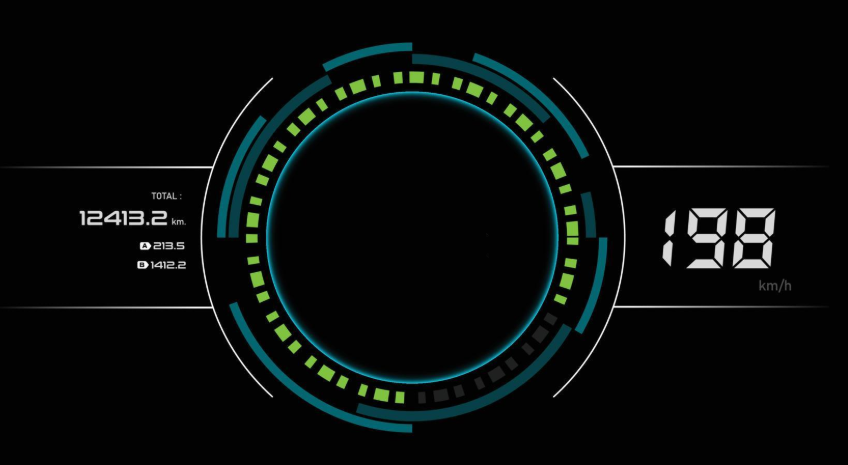
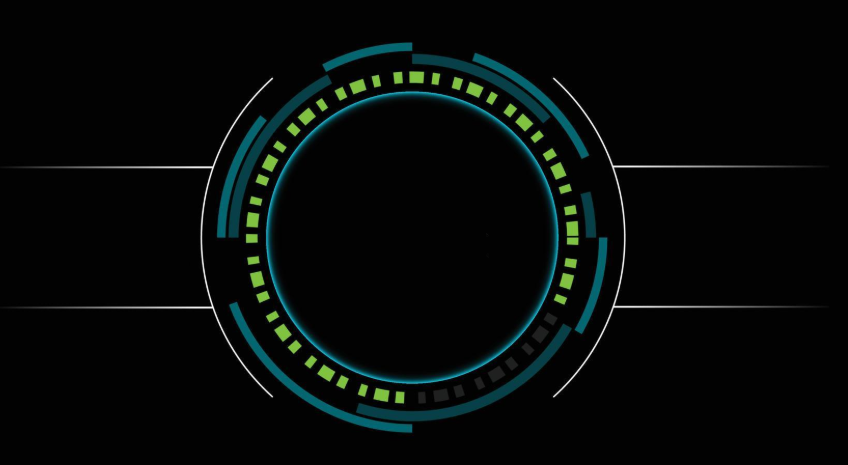
add new hud

Changed region(s): [[0.7665, 0.4215, 0.9505, 0.6323], [0.092, 0.3914, 0.2146, 0.6022]]

diff --git a/proto/hud/speed/white_speed.py b/proto/hud/speed/white_speed.py
@@ -1,0 +1,267 @@
+import math
+import os
+import cv2
+import numpy as np
+try:
+    from .base import HudPanel
+except ImportError:
+    from ..base import HudPanel
+
+
+class WhiteSpeedPanel(HudPanel):
+    def __init__(self, config=None):
+        super().__init__(config)
+        self.config.update({
+            "bg_image_path": os.path.join(os.path.dirname(__file__), "white.png"),
+            "bg_clean_image_path": os.path.join(os.path.dirname(__file__), "white1.png"),
+            "size_ratio": 0.32,
+            "margin_left": 36,
+            "margin_bottom": 80,
+            "max_speed": 280.0,
+            "start_angle": 225.0,
+            "sweep_angle": 270.0,
+            "needle_color": (0, 0, 220),
+            "needle_outline_color": (0, 0, 120),
+            "show_digital": False,
+            "digital_color": (30, 30, 30),
+            "unit_color": (80, 80, 80),
+            "unit_text": "KM/H",
+            "dial_left_center": (0.25, 0.5),
+            "dial_right_center": (0.75, 0.5),
+            "dial_radius_ratio": 0.40,
+            "draw_right_needle": True,
+            "digital_on_right": True,
+            "auto_calibrate": True,
+            "inpaint_enabled": True,
+            "inpaint_wedge_width": 10.0,
+            "inpaint_radius_ratio": 0.45,
+            "inpaint_left_angle": 330.0,
+            "inpaint_right_angle": 225.0,
+        })
+        self.bg_image = None
+        self.bg_clean_image = None
+        self.bg_cache = {}
+        self._auto_done_key = None
+
+    def _load_bg(self, target_h):
+        if self.bg_image is None:
+            path = self.config.get("bg_image_path")
+            if path and os.path.exists(path):
+                img = cv2.imread(path, cv2.IMREAD_UNCHANGED)
+                if img is not None:
+                    self.bg_image = img
+        if self.bg_clean_image is None:
+            clean_path = self.config.get("bg_clean_image_path")
+            if clean_path and os.path.exists(clean_path):
+                img = cv2.imread(clean_path, cv2.IMREAD_UNCHANGED)
+                if img is not None:
+                    self.bg_clean_image = img
+
+        if self.bg_image is None:
+            out = np.zeros((target_h, target_h * 2, 4), dtype=np.uint8)
+            return out
+
+        h0, w0 = self.bg_image.shape[:2]
+        target_w = max(1, int(round(target_h * (w0 / max(1, h0)))))
+        key = (target_w, target_h)
+        cached = self.bg_cache.get(key)
+        if cached is not None:
+            return cached
+
+        resized = cv2.resize(self.bg_image, (target_w, target_h), interpolation=cv2.INTER_AREA)
+        resized_clean = None
+        if self.bg_clean_image is not None:
+            resized_clean = cv2.resize(self.bg_clean_image, (target_w, target_h), interpolation=cv2.INTER_AREA)
+
+        if resized.shape[2] == 4:
+            bgr = resized[:, :, :3].copy()
+            alpha = resized[:, :, 3].copy()
+        else:
+            bgr = resized.copy()
+            alpha = np.full((target_h, target_w), 255, dtype=np.uint8)
+
+        bgr_clean = None
+        if resized_clean is not None:
+            if resized_clean.shape[2] == 4:
+                bgr_clean = resized_clean[:, :, :3]
+            else:
+                bgr_clean = resized_clean
+
+        auto_key = (target_w, target_h)
+        if bool(self.config.get("auto_calibrate", True)) and self._auto_done_key != auto_key:
+            try:
+                gray = cv2.cvtColor(bgr, cv2.COLOR_BGR2GRAY)
+                gray = cv2.GaussianBlur(gray, (7, 7), 1.5)
+                def detect_center(approx_cx_ratio):
+                    cx0 = int(target_w * float(approx_cx_ratio))
+                    cy0 = int(target_h * float(self.config.get("dial_left_center", (0.25, 0.5))[1]))
+                    win_w = int(target_w * 0.28)
+                    win_h = int(target_h * 0.6)
+                    x1 = max(0, cx0 - win_w // 2)
+                    y1 = max(0, cy0 - win_h // 2)
+                    x2 = min(target_w, x1 + win_w)
+                    y2 = min(target_h, y1 + win_h)
+                    roi = gray[y1:y2, x1:x2]
+                    if roi.size == 0:
+                        return None
+                    rmin = max(4, int(min(roi.shape[:2]) * 0.05))
+                    rmax = max(rmin + 1, int(min(roi.shape[:2]) * 0.16))
+                    circles = cv2.HoughCircles(roi, cv2.HOUGH_GRADIENT, dp=1.2, minDist=int(min(roi.shape[:2]) * 0.8), param1=120, param2=18, minRadius=rmin, maxRadius=rmax)
+                    if circles is not None and len(circles[0]) >= 1:
+                        c = circles[0][0]
+                        cx = int(c[0]) + x1
+                        cy = int(c[1]) + y1
+                        r = int(c[2])
+                        return (cx, cy, r)
+                    return None
+                left_c = detect_center(self.config.get("dial_left_center", (0.25, 0.5))[0])
+                right_c = detect_center(self.config.get("dial_right_center", (0.75, 0.5))[0])
+                if left_c and right_c:
+                    lx, ly, lr = left_c
+                    rx, ry, rr = right_c
+                    self.config["dial_left_center"] = (lx / float(target_w), ly / float(target_h))
+                    self.config["dial_right_center"] = (rx / float(target_w), ry / float(target_h))
+                    dial_r = max(lr, rr) * 5
+                    self.config["dial_radius_ratio"] = max(0.1, min(0.7, dial_r / float(target_h)))
+                    self._auto_done_key = auto_key
+            except Exception:
+                pass
+
+        if bool(self.config.get("inpaint_enabled", True)):
+            dial_r = int(target_h * float(self.config.get("dial_radius_ratio", 0.40)))
+            radius = int(dial_r * float(self.config.get("inpaint_radius_ratio", 0.45)))
+            wedge_w = float(self.config.get("inpaint_wedge_width", 10.0))
+
+            def apply_clean(center_ratio, angle_deg):
+                mask = np.zeros((target_h, target_w), dtype=np.uint8)
+                cx = int(target_w * float(center_ratio[0]))
+                cy = int(target_h * float(center_ratio[1]))
+                ang1 = math.radians(angle_deg - wedge_w / 2.0)
+                ang2 = math.radians(angle_deg + wedge_w / 2.0)
+                p1 = (int(cx + radius * math.cos(ang1)), int(cy + radius * math.sin(ang1)))
+                p2 = (int(cx + radius * math.cos(ang2)), int(cy + radius * math.sin(ang2)))
+                cv2.fillConvexPoly(mask, np.array([(cx, cy), p1, p2], np.int32), 255, cv2.LINE_AA)
+                cap_r = max(3, int(dial_r * 0.10))
+                cv2.circle(mask, (cx, cy), cap_r, 255, -1)
+                if bgr_clean is not None and bgr_clean.shape[:2] == bgr.shape[:2]:
+                    m = mask.astype(bool)
+                    bgr[m] = bgr_clean[m]
+                else:
+                    try:
+                        bgr[:] = cv2.inpaint(bgr, mask, 2, cv2.INPAINT_TELEA)
+                    except Exception:
+                        pass
+
+            apply_clean(self.config.get("dial_left_center", (0.25, 0.5)), float(self.config.get("inpaint_left_angle", 330.0)))
+            apply_clean(self.config.get("dial_right_center", (0.75, 0.5)), float(self.config.get("inpaint_right_angle", 225.0)))
+
+        final = np.dstack((bgr, alpha))
+        self.bg_cache[key] = final
+        return final
+
+    @staticmethod
+    def _draw_needle(roi, center, angle_deg, needle_len, needle_w, color, outline_color):
+        cx, cy = center
+        ang = math.radians(angle_deg)
+        tip = (int(cx + needle_len * math.cos(ang)), int(cy + needle_len * math.sin(ang)))
+        perp = ang + math.pi / 2.0
+        p1 = (int(cx + needle_w * math.cos(perp)), int(cy + needle_w * math.sin(perp)))
+        p2 = (int(cx - needle_w * math.cos(perp)), int(cy - needle_w * math.sin(perp)))
+        needle_pts = np.array([p1, p2, tip], np.int32)
+        cv2.fillConvexPoly(roi, needle_pts, color, cv2.LINE_AA)
+        cv2.polylines(roi, [needle_pts.reshape((-1, 1, 2))], True, outline_color, 1, cv2.LINE_AA)
+
+    def _draw_impl(self, frame, data_context):
+        speed = float(data_context.get("speed", 0.0) or 0.0)
+        h, w = frame.shape[:2]
+
+        rect = data_context.get("rect")
+        if rect:
+            x, y, rw, rh = rect
+            target_h = max(160, rh)
+            target_h = int(min(target_h, rh))
+        else:
+            target_h = int(min(w, h) * float(self.config.get("size_ratio", 0.32)))
+            target_h = max(180, min(target_h, 420))
+            x = int(self.config.get("margin_left", 36))
+            y = int(h - target_h - self.config.get("margin_bottom", 80))
+
+        bg = self._load_bg(target_h)
+        target_w = int(bg.shape[1])
+        if rect:
+            x = x + (rw - target_w) // 2
+            y = y + (rh - target_h) // 2
+
+        x = max(0, min(x, w - target_w))
+        y = max(0, min(y, h - target_h))
+        if target_h < 120 or target_w < 120:
+            return
+
+        roi = frame[y:y + target_h, x:x + target_w]
+        if roi.size == 0:
+            return
+
+        alpha = bg[:, :, 3].astype(np.float32) / 255.0
+        bgr = bg[:, :, :3].astype(np.float32)
+        base = roi.astype(np.float32)
+        roi[:] = np.clip(bgr * alpha[..., None] + base * (1.0 - alpha[..., None]), 0, 255).astype(np.uint8)
+
+        max_speed = max(1.0, float(self.config.get("max_speed", 280.0)))
+        start_angle = float(self.config.get("start_angle", 225.0))
+        sweep_angle = float(self.config.get("sweep_angle", 270.0))
+        ratio = max(0.0, min(1.0, speed / max_speed))
+        needle_angle = start_angle + sweep_angle * ratio
+
+        dial_r = int(target_h * float(self.config.get("dial_radius_ratio", 0.40)))
+        needle_len = int(dial_r * 0.92)
+        needle_w = max(2, int(dial_r * 0.06))
+        left_center_ratio = self.config.get("dial_left_center", (0.25, 0.5))
+        right_center_ratio = self.config.get("dial_right_center", (0.75, 0.5))
+        left_center = (int(target_w * float(left_center_ratio[0])), int(target_h * float(left_center_ratio[1])))
+        right_center = (int(target_w * float(right_center_ratio[0])), int(target_h * float(right_center_ratio[1])))
+
+        self._draw_needle(
+            roi,
+            left_center,
+            needle_angle,
+            needle_len,
+            needle_w,
+            self.config.get("needle_color", (0, 0, 220)),
+            self.config.get("needle_outline_color", (0, 0, 120)),
+        )
+        if bool(self.config.get("draw_right_needle", True)):
+            self._draw_needle(
+                roi,
+                right_center,
+                needle_angle,
+                needle_len,
+                needle_w,
+                self.config.get("needle_color", (0, 0, 220)),
+                self.config.get("needle_outline_color", (0, 0, 120)),
+            )
+
+        cap_r = max(3, int(dial_r * 0.10))
+        for cc in (left_center, right_center):
+            cv2.circle(roi, cc, cap_r, (235, 235, 235), -1, cv2.LINE_AA)
+            cv2.circle(roi, cc, cap_r, (120, 120, 120), 1, cv2.LINE_AA)
+
+        # Optional digital display (disabled by default)
+        if bool(self.config.get("show_digital", False)):
+            font = cv2.FONT_HERSHEY_SIMPLEX
+            sp_text = f"{int(round(speed))}"
+            scale_val = max(0.8, target_h / 180.0) * float(self.config.get("font_scale", 1.0))
+            thickness_val = max(2, int(scale_val * 2.2))
+            (tw, th), _ = cv2.getTextSize(sp_text, font, scale_val, thickness_val)
+            if bool(self.config.get("digital_on_right", True)):
+                tx, ty = right_center[0] - tw // 2, right_center[1] + th // 2
+            else:
+                tx, ty = left_center[0] - tw // 2, left_center[1] + th // 2
+            cv2.putText(roi, sp_text, (tx, ty), font, scale_val, self.config.get("digital_color", (30, 30, 30)), thickness_val, cv2.LINE_AA)
+            unit = str(self.config.get("unit_text", "KM/H"))
+            scale_unit = max(0.35, target_h / 420.0) * float(self.config.get("font_scale", 1.0))
+            (uw, _), _ = cv2.getTextSize(unit, font, scale_unit, 1)
+            if bool(self.config.get("digital_on_right", True)):
+                ux, uy = right_center[0] - uw // 2, right_center[1] + th // 2 + int(target_h * 0.10)
+            else:
+                ux, uy = left_center[0] - uw // 2, left_center[1] + th // 2 + int(target_h * 0.10)
+            cv2.putText(roi, unit, (ux, uy), font, scale_unit, self.config.get("unit_color", (80, 80, 80)), 1, cv2.LINE_AA)

diff --git a/proto/hud/speed/black2_speed.py b/proto/hud/speed/black2_speed.py
@@ -21,14 +21,51 @@ class Black2SpeedPanel(HudPanel):
             "sweep_angle": 260.0,
             "digital_color": (245, 245, 245),
             "unit_color": (180, 180, 180),
-            "led_active_color": (0, 230, 120),
-            "led_inactive_color": (40, 70, 40),
+            "led_color_low": (90, 255, 140),
+            "led_color_mid": (0, 165, 255),
+            "led_color_high": (0, 0, 255),
+            "led_mid_ratio": 0.7,
+            "led_inactive_brightness": 0.14,
+            "led_active_brightness_min": 0.55,
+            "led_active_brightness_max": 1.0,
+            "led_trail_count": 14,
             "led_count": 72,
             "led_ring_radius_ratio": 0.42,
             "led_radius_ratio": 0.014
         })
         self.bg_image = None
         self.bg_cache = {}
+
+    @staticmethod
+    def _lerp_color(c1, c2, a):
+        a = float(a)
+        return (
+            int(round(c1[0] + (c2[0] - c1[0]) * a)),
+            int(round(c1[1] + (c2[1] - c1[1]) * a)),
+            int(round(c1[2] + (c2[2] - c1[2]) * a)),
+        )
+
+    def _led_color_for_ratio(self, t):
+        c0 = self.config.get("led_color_low", (90, 255, 140))
+        c1 = self.config.get("led_color_mid", (0, 165, 255))
+        c2 = self.config.get("led_color_high", (0, 0, 255))
+        mid = float(self.config.get("led_mid_ratio", 0.7))
+        if mid <= 0.0:
+            return self._lerp_color(c0, c2, t)
+        if t <= mid:
+            a = t / mid
+            return self._lerp_color(c0, c1, a)
+        a = (t - mid) / max(1e-6, (1.0 - mid))
+        return self._lerp_color(c1, c2, a)
+
+    @staticmethod
+    def _scale_color(color_bgr, brightness):
+        b = max(0.0, min(1.0, float(brightness)))
+        return (
+            int(max(0, min(255, round(color_bgr[0] * b)))),
+            int(max(0, min(255, round(color_bgr[1] * b)))),
+            int(max(0, min(255, round(color_bgr[2] * b)))),
+        )
 
     def _load_bg(self, size):
         cached = self.bg_cache.get(size)
@@ -104,12 +141,26 @@ class Black2SpeedPanel(HudPanel):
         ring_r = int(size * float(self.config.get("led_ring_radius_ratio", 0.42)))
         led_r = max(1, int(size * float(self.config.get("led_radius_ratio", 0.014))))
         active_n = int(round(ratio * led_count))
+        inactive_b = float(self.config.get("led_inactive_brightness", 0.14))
+        bmin = float(self.config.get("led_active_brightness_min", 0.55))
+        bmax = float(self.config.get("led_active_brightness_max", 1.0))
+        trail_n = max(1, int(self.config.get("led_trail_count", 14)))
         for i in range(led_count):
             t = i / max(1, led_count - 1)
             ang = math.radians(start_angle + sweep_angle * t)
             px = int(cx + ring_r * math.cos(ang))
             py = int(cy + ring_r * math.sin(ang))
-            color = self.config.get("led_active_color", (0, 230, 120)) if i < active_n else self.config.get("led_inactive_color", (40, 70, 40))
+            base_color = self._led_color_for_ratio(t)
+            if i < active_n:
+                edge = max(0, active_n - 1)
+                d = edge - i
+                if d <= trail_n:
+                    bright = bmax - (bmax - bmin) * (d / float(trail_n))
+                else:
+                    bright = bmin
+                color = self._scale_color(base_color, bright)
+            else:
+                color = self._scale_color(base_color, inactive_b)
             cv2.circle(roi, (px, py), led_r, color, -1, cv2.LINE_AA)
         font = cv2.FONT_HERSHEY_SIMPLEX
         sp_text = f"{int(round(speed))}"
